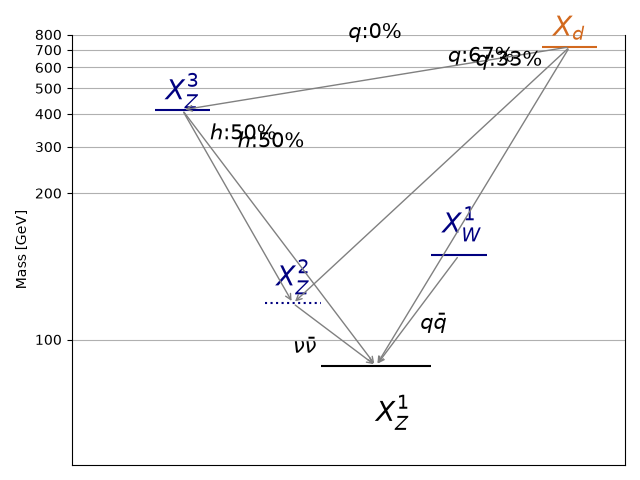
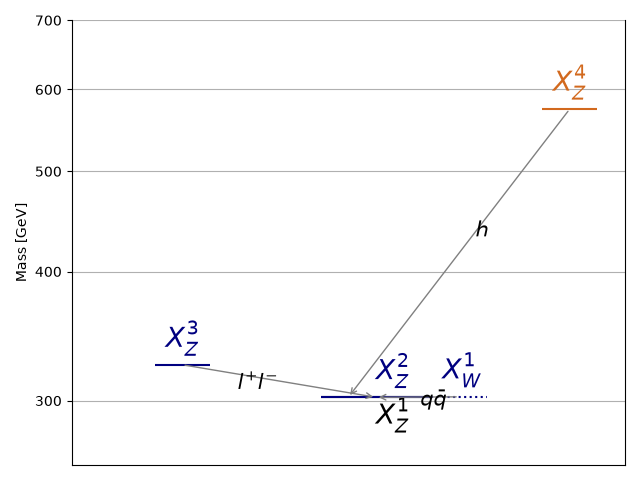
automated update by plotHiscore.py to rundir5_320:     K=12.682 TL=18.43 walkerid=504

diff --git a/protomodels/rundir5_320/rawnumbers.html b/protomodels/rundir5_320/rawnumbers.html
@@ -1,45 +1,13 @@
 <table>
 <tr><th>Analysis Name</th><th>Type</th><th>Dataset</th><th>Topos</th><th>Observed</th><th>Expected</th><th>Approx &sigma;</th><th>Particles</th>
 </tr>
-<tr><td><a href=http://cms-results.web.cern.ch/cms-results/public-results/publications/EXO-20-004/>CMS-EXO-20-004</a></td><td>comb</td> <td>-</td><td>TChiISR, TChiZISRqq</td><td> 1e+02 fb </td><td> 8e+01 fb</td><td style="text-align:right">4.8 &sigma;</td><td style="text-align:right">X<sup>1</sup><sub>W</sub>, X<sup>2</sup><sub>Z</sub>, X<sup>1</sup><sub>Z</sub></td></tr>
-<tr><td><a href=https://atlas.web.cern.ch/Atlas/GROUPS/PHYSICS/PAPERS/EXOT-2018-06/>ATLAS-EXOT-2018-06</a></td><td>em</td> <td>EM10</td><td>TChiISR, TChiZISRqq</td><td>413</td><td>359.00 +/- 10.00</td><td style="text-align:right">2.5 &sigma;</td><td style="text-align:right">X<sup>1</sup><sub>W</sub>, X<sup>2</sup><sub>Z</sub>, X<sup>1</sup><sub>Z</sub></td></tr>
-<tr><td><a href=http://cms-results.web.cern.ch/cms-results/public-results/publications/SUS-20-004/>CMS-SUS-20-004</a></td><td>comb</td> <td>-</td><td>TChiHH</td><td> 0.4 fb </td><td> 0.2 fb</td><td style="text-align:right">2.3 &sigma;</td><td style="text-align:right">X<sup>3</sup><sub>Z</sub>, X<sup>2</sup><sub>Z</sub>, X<sup>1</sup><sub>Z</sub></td></tr>
-<tr><td><a href=https://atlas.web.cern.ch/Atlas/GROUPS/PHYSICS/PAPERS/SUSY-2016-07/>ATLAS-SUSY-2016-07</a></td><td>em</td> <td>2j_Meff_1200</td><td>T2</td><td>611</td><td>526.00 +/- 31.00</td><td style="text-align:right">2.2 &sigma;</td><td style="text-align:right">X<sup>2</sup><sub>Z</sub>, X<sup>1</sup><sub>Z</sub>, X<sub>d</sub></td></tr>
-<tr><td><a href=https://cms-results.web.cern.ch/cms-results/public-results/publications/SUS-13-012/index.html>CMS-SUS-13-012</a></td><td>em</td> <td>3NJet6_1000HT12 ...</td><td>T2</td><td>32</td><td>22.80 +/- 5.20</td><td style="text-align:right">1.2 &sigma;</td><td style="text-align:right">X<sup>2</sup><sub>Z</sub>, X<sup>1</sup><sub>Z</sub>, X<sub>d</sub></td></tr>
-<tr><td><a href=https://atlas.web.cern.ch/Atlas/GROUPS/PHYSICS/CONFNOTES/ATLAS-CONF-2013-054/>ATLAS-CONF-2013-054</a></td><td>em</td> <td>8j50 flavor 0 b ...</td><td>T2</td><td>40</td><td>35.00 +/- 4.00</td><td style="text-align:right">0.7 &sigma;</td><td style="text-align:right">X<sup>2</sup><sub>Z</sub>, X<sup>1</sup><sub>Z</sub>, X<sub>d</sub></td></tr>
-<tr><td><a href=https://atlas.web.cern.ch/Atlas/GROUPS/PHYSICS/PAPERS/SUSY-2013-02/>ATLAS-SUSY-2013-02</a></td><td>em</td> <td>SR2jt</td><td>T2</td><td>133</td><td>125.00 +/- 10.00</td><td style="text-align:right">0.5 &sigma;</td><td style="text-align:right">X<sup>2</sup><sub>Z</sub>, X<sup>1</sup><sub>Z</sub>, X<sub>d</sub></td></tr>
+<tr><td><a href=https://atlas.web.cern.ch/Atlas/GROUPS/PHYSICS/PAPERS/EXOT-2018-06/>ATLAS-EXOT-2018-06</a></td><td>em</td> <td>EM10</td><td>TChiISR</td><td>413</td><td>359.00 +/- 10.00</td><td style="text-align:right">2.4 &sigma;</td><td style="text-align:right">X<sup>2</sup><sub>Z</sub>, X<sup>1</sup><sub>Z</sub></td></tr>
+<tr><td><a href=http://cms-results.web.cern.ch/cms-results/public-results/publications/SUS-20-004/>CMS-SUS-20-004</a></td><td>comb</td> <td>-</td><td>TChiHH</td><td> 0.3 fb </td><td> 0.2 fb</td><td style="text-align:right">2.2 &sigma;</td><td style="text-align:right">X<sup>4</sup><sub>Z</sub>, X<sup>2</sup><sub>Z</sub></td></tr>
+<tr><td><a href=http://cms-results.web.cern.ch/cms-results/public-results/publications/EXO-20-004/>CMS-EXO-20-004</a></td><td>comb</td> <td>-</td><td>TChiISR</td><td> 4e+01 fb </td><td> 3e+01 fb</td><td style="text-align:right">2.2 &sigma;</td><td style="text-align:right">X<sup>2</sup><sub>Z</sub>, X<sup>1</sup><sub>Z</sub></td></tr>
+<tr><td><a href=http://cms-results.web.cern.ch/cms-results/public-results/publications/EXO-19-010/>CMS-EXO-19-010</a></td><td>em</td> <td>SR_nlay5</td><td>TDTM2F</td><td>6</td><td>3.70 +/- 1.24</td><td style="text-align:right">0.8 &sigma;</td><td style="text-align:right">X<sup>1</sup><sub>W</sub>, X<sup>2</sup><sub>Z</sub>, X<sup>1</sup><sub>Z</sub></td></tr>
+<tr><td><a href=https://atlas.web.cern.ch/Atlas/GROUPS/PHYSICS/PAPERS/SUSY-2018-42/>ATLAS-SUSY-2018-42</a></td><td>em</td> <td>SR300_High_long</td><td>TDTM2F</td><td>7</td><td>5.10 +/- 0.50</td><td style="text-align:right">0.7 &sigma;</td><td style="text-align:right">X<sup>1</sup><sub>W</sub>, X<sup>2</sup><sub>Z</sub>, X<sup>1</sup><sub>Z</sub></td></tr>
+<tr><td><a href=https://atlas.web.cern.ch/Atlas/GROUPS/PHYSICS/PAPERS/SUSY-2016-06/>ATLAS-SUSY-2016-06</a></td><td>em</td> <td>SR_EW</td><td>TDTM2F</td><td>9</td><td>11.80 +/- 3.10</td><td style="text-align:right">-0.7 &sigma;</td><td style="text-align:right">X<sup>1</sup><sub>W</sub>, X<sup>2</sup><sub>Z</sub>, X<sup>1</sup><sub>Z</sub></td></tr>
 </table>
 <table style='color:grey'>
-<tr><th>Not in Best Combo</th><th>Type</th><th>Dataset</th><th>Topos</th><th>Observed</th><th>Expected</th><th>Approx &sigma;</th><th>Particles</th><tr><td><a href=https://atlas.web.cern.ch/Atlas/GROUPS/PHYSICS/CONFNOTES/ATLAS-CONF-2013-047/>ATLAS-CONF-2013-047</a></td><td>em</td> <td>E Loose</td><td>T2</td><td>166</td><td>113.00 +/- 21.00</td><td style="text-align:right">2.2 &sigma;</td><td style="text-align:right">X<sup>2</sup><sub>Z</sub>, X<sup>1</sup><sub>Z</sub>, X<sub>d</sub></td></tr>
-<tr><td><a href=https://atlas.web.cern.ch/Atlas/GROUPS/PHYSICS/CONFNOTES/ATLAS-CONF-2013-047/>ATLAS-CONF-2013-047</a></td><td>em</td> <td>A Loose</td><td>T2</td><td>5333</td><td>4700.00 +/- 500.00</td><td style="text-align:right">1.3 &sigma;</td><td style="text-align:right">X<sup>2</sup><sub>Z</sub>, X<sup>1</sup><sub>Z</sub>, X<sub>d</sub></td></tr>
-<tr><td><a href=http://cms-results.web.cern.ch/cms-results/public-results/publications/SUS-16-033/index.html>CMS-SUS-16-033</a></td><td>em</td> <td>SR2_Njet3_Nb0_H ...</td><td>T2</td><td>71</td><td>55.20 +/- 11.50</td><td style="text-align:right">1.1 &sigma;</td><td style="text-align:right">X<sup>2</sup><sub>Z</sub>, X<sup>1</sup><sub>Z</sub>, X<sub>d</sub></td></tr>
-<tr><td><a href=https://atlas.web.cern.ch/Atlas/GROUPS/PHYSICS/CONFNOTES/ATLAS-CONF-2013-047/>ATLAS-CONF-2013-047</a></td><td>em</td> <td>E Medium</td><td>T2</td><td>41</td><td>30.00 +/- 8.00</td><td style="text-align:right">1.1 &sigma;</td><td style="text-align:right">X<sup>2</sup><sub>Z</sub>, X<sup>1</sup><sub>Z</sub>, X<sub>d</sub></td></tr>
-<tr><td><a href=http://atlas.web.cern.ch/Atlas/GROUPS/PHYSICS/PAPERS/SUSY-2015-06/>ATLAS-SUSY-2015-06</a></td><td>em</td> <td>SR4jt</td><td>T2</td><td>7</td><td>4.10 +/- 1.10</td><td style="text-align:right">1.0 &sigma;</td><td style="text-align:right">X<sup>2</sup><sub>Z</sub>, X<sup>1</sup><sub>Z</sub>, X<sub>d</sub></td></tr>
-<tr><td><a href=https://atlas.web.cern.ch/Atlas/GROUPS/PHYSICS/CONFNOTES/ATLAS-CONF-2013-047/>ATLAS-CONF-2013-047</a></td><td>em</td> <td>E Tight</td><td>T2</td><td>5</td><td>2.90 +/- 1.80</td><td style="text-align:right">0.7 &sigma;</td><td style="text-align:right">X<sup>2</sup><sub>Z</sub>, X<sup>1</sup><sub>Z</sub>, X<sub>d</sub></td></tr>
-<tr><td><a href=http://cms-results.web.cern.ch/cms-results/public-results/publications/SUS-16-033/index.html>CMS-SUS-16-033</a></td><td>em</td> <td>SR6_Njet2_Nb2_H ...</td><td>T2</td><td>216</td><td>196.00 +/- 28.00</td><td style="text-align:right">0.6 &sigma;</td><td style="text-align:right">X<sup>2</sup><sub>Z</sub>, X<sup>1</sup><sub>Z</sub>, X<sub>d</sub></td></tr>
-<tr><td><a href=https://atlas.web.cern.ch/Atlas/GROUPS/PHYSICS/CONFNOTES/ATLAS-CONF-2013-047/>ATLAS-CONF-2013-047</a></td><td>em</td> <td>B Tight</td><td>T2</td><td>4</td><td>2.40 +/- 1.40</td><td style="text-align:right">0.6 &sigma;</td><td style="text-align:right">X<sup>2</sup><sub>Z</sub>, X<sup>1</sup><sub>Z</sub>, X<sub>d</sub></td></tr>
-<tr><td><a href=https://atlas.web.cern.ch/Atlas/GROUPS/PHYSICS/CONFNOTES/ATLAS-CONF-2013-047/>ATLAS-CONF-2013-047</a></td><td>em</td> <td>A Medium</td><td>T2</td><td>135</td><td>122.00 +/- 18.00</td><td style="text-align:right">0.6 &sigma;</td><td style="text-align:right">X<sup>2</sup><sub>Z</sub>, X<sup>1</sup><sub>Z</sub>, X<sub>d</sub></td></tr>
-<tr><td><a href=http://cms-results.web.cern.ch/cms-results/public-results/publications/SUS-16-033/index.html>CMS-SUS-16-033</a></td><td>em</td> <td>SR1_Njet2_Nb0_H ...</td><td>T2</td><td>7838</td><td>7584.00 +/- 433.00</td><td style="text-align:right">0.6 &sigma;</td><td style="text-align:right">X<sup>2</sup><sub>Z</sub>, X<sup>1</sup><sub>Z</sub>, X<sub>d</sub></td></tr>
-<tr><td><a href=http://cms-results.web.cern.ch/cms-results/public-results/publications/SUS-16-033/index.html>CMS-SUS-16-033</a></td><td>em</td> <td>SR12_Njet5_Nb1_ ...</td><td>T2</td><td>48</td><td>42.20 +/- 9.70</td><td style="text-align:right">0.5 &sigma;</td><td style="text-align:right">X<sup>2</sup><sub>Z</sub>, X<sup>1</sup><sub>Z</sub>, X<sub>d</sub></td></tr>
-<tr><td><a href=http://cms-results.web.cern.ch/cms-results/public-results/publications/SUS-16-033/index.html>CMS-SUS-16-033</a></td><td>em</td> <td>SR7_Njet3_Nb1_H ...</td><td>T2</td><td>123</td><td>113.00 +/- 18.00</td><td style="text-align:right">0.5 &sigma;</td><td style="text-align:right">X<sup>2</sup><sub>Z</sub>, X<sup>1</sup><sub>Z</sub>, X<sub>d</sub></td></tr>
-<tr><td><a href=https://atlas.web.cern.ch/Atlas/GROUPS/PHYSICS/CONFNOTES/ATLAS-CONF-2013-047/>ATLAS-CONF-2013-047</a></td><td>em</td> <td>D</td><td>T2</td><td>18</td><td>15.00 +/- 5.00</td><td style="text-align:right">0.4 &sigma;</td><td style="text-align:right">X<sup>2</sup><sub>Z</sub>, X<sup>1</sup><sub>Z</sub>, X<sub>d</sub></td></tr>
-<tr><td><a href=http://atlas.web.cern.ch/Atlas/GROUPS/PHYSICS/PAPERS/SUSY-2015-06/>ATLAS-SUSY-2015-06</a></td><td>em</td> <td>SR2jt</td><td>T2</td><td>26</td><td>23.00 +/- 4.00</td><td style="text-align:right">0.4 &sigma;</td><td style="text-align:right">X<sup>2</sup><sub>Z</sub>, X<sup>1</sup><sub>Z</sub>, X<sub>d</sub></td></tr>
-<tr><td><a href=https://atlas.web.cern.ch/Atlas/GROUPS/PHYSICS/CONFNOTES/ATLAS-CONF-2013-047/>ATLAS-CONF-2013-047</a></td><td>em</td> <td>C Medium</td><td>T2</td><td>228</td><td>210.00 +/- 40.00</td><td style="text-align:right">0.4 &sigma;</td><td style="text-align:right">X<sup>2</sup><sub>Z</sub>, X<sup>1</sup><sub>Z</sub>, X<sub>d</sub></td></tr>
-<tr><td><a href=http://cms-results.web.cern.ch/cms-results/public-results/publications/SUS-16-033/index.html>CMS-SUS-16-033</a></td><td>em</td> <td>SR9_NJet5_Nb2_H ...</td><td>T2</td><td>6</td><td>4.40 +/- 3.40</td><td style="text-align:right">0.4 &sigma;</td><td style="text-align:right">X<sup>2</sup><sub>Z</sub>, X<sup>1</sup><sub>Z</sub>, X<sub>d</sub></td></tr>
-<tr><td><a href=http://cms-results.web.cern.ch/cms-results/public-results/publications/SUS-16-033/index.html>CMS-SUS-16-033</a></td><td>em</td> <td>SR4_Njet5_Nb0_H ...</td><td>T2</td><td>25</td><td>23.00 +/- 6.50</td><td style="text-align:right">0.2 &sigma;</td><td style="text-align:right">X<sup>2</sup><sub>Z</sub>, X<sup>1</sup><sub>Z</sub>, X<sub>d</sub></td></tr>
-<tr><td><a href=http://cms-results.web.cern.ch/cms-results/public-results/publications/SUS-16-033/index.html>CMS-SUS-16-033</a></td><td>em</td> <td>SR3_Njet5_Nb0_H ...</td><td>T2</td><td>819</td><td>806.00 +/- 57.00</td><td style="text-align:right">0.2 &sigma;</td><td style="text-align:right">X<sup>2</sup><sub>Z</sub>, X<sup>1</sup><sub>Z</sub>, X<sub>d</sub></td></tr>
-<tr><td><a href=http://cms-results.web.cern.ch/cms-results/public-results/publications/SUS-16-033/index.html>CMS-SUS-16-033</a></td><td>em</td> <td>SR5_Njet9_Nb0_H ...</td><td>T2</td><td>1</td><td>0.60 +/- 1.30</td><td style="text-align:right">0.2 &sigma;</td><td style="text-align:right">X<sup>2</sup><sub>Z</sub>, X<sup>1</sup><sub>Z</sub>, X<sub>d</sub></td></tr>
-<tr><td><a href=http://atlas.web.cern.ch/Atlas/GROUPS/PHYSICS/PAPERS/SUSY-2015-06/>ATLAS-SUSY-2015-06</a></td><td>em</td> <td>SR2jm</td><td>T2</td><td>191</td><td>191.00 +/- 21.00</td><td style="text-align:right">-0.0 &sigma;</td><td style="text-align:right">X<sup>2</sup><sub>Z</sub>, X<sup>1</sup><sub>Z</sub>, X<sub>d</sub></td></tr>
-<tr><td><a href=https://atlas.web.cern.ch/Atlas/GROUPS/PHYSICS/PAPERS/SUSY-2018-22/>ATLAS-SUSY-2018-22</a></td><td>em</td> <td>SR2j_2200</td><td>T2</td><td>971</td><td>980.00 +/- 50.00</td><td style="text-align:right">-0.2 &sigma;</td><td style="text-align:right">X<sup>2</sup><sub>Z</sub>, X<sup>1</sup><sub>Z</sub>, X<sub>d</sub></td></tr>
-<tr><td><a href=http://cms-results.web.cern.ch/cms-results/public-results/publications/SUS-16-033/index.html>CMS-SUS-16-033</a></td><td>em</td> <td>SR8_Njet5_Nb3_H ...</td><td>T2</td><td>17</td><td>19.50 +/- 8.40</td><td style="text-align:right">-0.3 &sigma;</td><td style="text-align:right">X<sup>2</sup><sub>Z</sub>, X<sup>1</sup><sub>Z</sub>, X<sub>d</sub></td></tr>
-<tr><td><a href=https://atlas.web.cern.ch/Atlas/GROUPS/PHYSICS/CONFNOTES/ATLAS-CONF-2013-047/>ATLAS-CONF-2013-047</a></td><td>em</td> <td>B Medium</td><td>T2</td><td>29</td><td>33.00 +/- 7.00</td><td style="text-align:right">-0.5 &sigma;</td><td style="text-align:right">X<sup>2</sup><sub>Z</sub>, X<sup>1</sup><sub>Z</sub>, X<sub>d</sub></td></tr>
-<tr><td><a href=https://atlas.web.cern.ch/Atlas/GROUPS/PHYSICS/PAPERS/SUSY-2018-22/>ATLAS-SUSY-2018-22</a></td><td>em</td> <td>SR2j_1600</td><td>T2</td><td>2111</td><td>2190.00 +/- 130.00</td><td style="text-align:right">-0.6 &sigma;</td><td style="text-align:right">X<sup>2</sup><sub>Z</sub>, X<sup>1</sup><sub>Z</sub>, X<sub>d</sub></td></tr>
-<tr><td><a href=http://atlas.web.cern.ch/Atlas/GROUPS/PHYSICS/PAPERS/SUSY-2015-06/>ATLAS-SUSY-2015-06</a></td><td>em</td> <td>SR6jt</td><td>T2</td><td>3</td><td>4.20 +/- 1.20</td><td style="text-align:right">-0.7 &sigma;</td><td style="text-align:right">X<sup>2</sup><sub>Z</sub>, X<sup>1</sup><sub>Z</sub>, X<sub>d</sub></td></tr>
-<tr><td><a href=http://atlas.web.cern.ch/Atlas/GROUPS/PHYSICS/PAPERS/SUSY-2015-06/>ATLAS-SUSY-2015-06</a></td><td>em</td> <td>SR2jl</td><td>T2</td><td>263</td><td>283.00 +/- 24.00</td><td style="text-align:right">-0.7 &sigma;</td><td style="text-align:right">X<sup>2</sup><sub>Z</sub>, X<sup>1</sup><sub>Z</sub>, X<sub>d</sub></td></tr>
-<tr><td><a href=https://atlas.web.cern.ch/Atlas/GROUPS/PHYSICS/PAPERS/SUSY-2018-22/>ATLAS-SUSY-2018-22</a></td><td>em</td> <td>SR2j_2800</td><td>T2</td><td>78</td><td>87.00 +/- 8.00</td><td style="text-align:right">-0.8 &sigma;</td><td style="text-align:right">X<sup>2</sup><sub>Z</sub>, X<sup>1</sup><sub>Z</sub>, X<sub>d</sub></td></tr>
-<tr><td><a href=https://atlas.web.cern.ch/Atlas/GROUPS/PHYSICS/CONFNOTES/ATLAS-CONF-2013-047/>ATLAS-CONF-2013-047</a></td><td>em</td> <td>C Tight</td><td>T2</td><td>0</td><td>1.60 +/- 1.40</td><td style="text-align:right">-0.8 &sigma;</td><td style="text-align:right">X<sup>2</sup><sub>Z</sub>, X<sup>1</sup><sub>Z</sub>, X<sub>d</sub></td></tr>
-<tr><td><a href=http://cms-results.web.cern.ch/cms-results/public-results/publications/SUS-16-033/index.html>CMS-SUS-16-033</a></td><td>em</td> <td>SR11_Njet7_Nb1_ ...</td><td>T2</td><td>890</td><td>969.00 +/- 80.00</td><td style="text-align:right">-0.9 &sigma;</td><td style="text-align:right">X<sup>2</sup><sub>Z</sub>, X<sup>1</sup><sub>Z</sub>, X<sub>d</sub></td></tr>
-<tr><td><a href=http://atlas.web.cern.ch/Atlas/GROUPS/PHYSICS/PAPERS/SUSY-2015-06/>ATLAS-SUSY-2015-06</a></td><td>em</td> <td>SR6jm</td><td>T2</td><td>4</td><td>6.90 +/- 1.50</td><td style="text-align:right">-1.2 &sigma;</td><td style="text-align:right">X<sup>2</sup><sub>Z</sub>, X<sup>1</sup><sub>Z</sub>, X<sub>d</sub></td></tr>
-<tr><td><a href=http://atlas.web.cern.ch/Atlas/GROUPS/PHYSICS/PAPERS/SUSY-2015-06/>ATLAS-SUSY-2015-06</a></td><td>em</td> <td>SR5j</td><td>T2</td><td>7</td><td>13.20 +/- 2.20</td><td style="text-align:right">-1.7 &sigma;</td><td style="text-align:right">X<sup>2</sup><sub>Z</sub>, X<sup>1</sup><sub>Z</sub>, X<sub>d</sub></td></tr>
-<tr><td><a href=http://cms-results.web.cern.ch/cms-results/public-results/publications/SUS-19-006/index.html>CMS-SUS-19-006-agg</a></td><td>comb</td> <td>-</td><td>T2</td><td> 9 fb </td><td> 8 fb</td><td style="text-align:right">-2.6 &sigma;</td><td style="text-align:right">X<sup>2</sup><sub>Z</sub>, X<sup>1</sup><sub>Z</sub>, X<sub>d</sub></td></tr>
+<tr><th>Not in Best Combo</th><th>Type</th><th>Dataset</th><th>Topos</th><th>Observed</th><th>Expected</th><th>Approx &sigma;</th><th>Particles</th><tr><td><a href=https://atlas.web.cern.ch/Atlas/GROUPS/PHYSICS/PAPERS/SUSY-2018-19/>ATLAS-SUSY-2018-19</a></td><td>em</td> <td>SR_EW</td><td>TDTM2F</td><td>3</td><td>3.00 +/- 0.70</td><td style="text-align:right">-0.2 &sigma;</td><td style="text-align:right">X<sup>1</sup><sub>W</sub>, X<sup>2</sup><sub>Z</sub>, X<sup>1</sup><sub>Z</sub></td></tr>
 </table>

diff --git a/protomodels/rundir5_320/index.html b/protomodels/rundir5_320/index.html
@@ -1,27 +1,27 @@
 <html>
 <body>
 <center>
-<table><td><h1>Current best protomodel: <i>K</i>=33.77, <i>TL</i>=41.52</h1><td><img height=60px src=https://smodels.github.io//protomodels/logos/protomodel_lego.png></table>
+<table><td><h1>Current best protomodel: <i>K</i>=12.68, <i>TL</i>=18.43</h1><td><img height=60px src=https://smodels.github.io//protomodels/logos/protomodel_lego.png></table>
 </center>
-<b><a href=./hiscore.slha>ProtoModel</a> <a href=./pmodel.dict>(dict)</a> produced with <a href=https://smodels.github.io//docs/Validation320>database v3.2.0</a>, allowed_extr 0.05 in walker 502 step 1621.</b> <br>
+<b><a href=./hiscore.slha>ProtoModel</a> <a href=./pmodel.dict>(dict)</a> produced with <a href=https://smodels.github.io//docs/Validation320>database v3.2.0</a>, allowed_extr 0.05 in walker 504 step 916.</b> <br>
 <table width=80%>
 <tr><td>
 <br><b>Critics:</b> passed both critics<br>
-<br><b>UL Critic: 1/3 analyses exclude</b><br>
-ATLAS-EXOT-2018-06:EM12:: <span style='color: darkred;'>r<sub>obs</sub>=2.149, r<sub>exp</sub>=1.793</span><br>
-CMS-SUS-19-006:ul:: <span style='color: darkgreen;'>r<sub>obs</sub>=0.912, r<sub>exp</sub>=0.772</span><br>
-CMS-SUS-16-033:ul:: <span style='color: darkgreen;'>r<sub>obs</sub>=0.858, r<sub>exp</sub>=0.588</span><br>
-<br><b>LLHD Critic:</b> CMS-EXO-20-004:matrix.cov, ATLAS-EXOT-2018-06:EM12, CMS-SUS-20-004:matrix.cov, ATLAS-SUSY-2016-07:2j_Meff_1200, ATLAS-SUSY-2013-02:SR2jt, CMS-SUS-13-012:3NJet6_1000HT1250_600MHTinf:: <span style='color: darkgreen;'>r<sub>obs</sub>=0.99, r<sub>exp</sub>=3.52</span><br>
+<br><b>UL Critic: 1/2 analyses exclude</b><br>
+ATLAS-EXOT-2018-06:EM12:: <span style='color: darkred;'>r<sub>obs</sub>=1.755, r<sub>exp</sub>=1.464</span><br>
+CMS-EXO-19-010:SR_nlay6p:: <span style='color: darkgreen;'>r<sub>obs</sub>=0.606, r<sub>exp</sub>=0.371</span><br>
+ATLAS-SUSY-2018-19:SR_EW:: <span style='color: darkgreen;'>r<sub>obs</sub>=0.533, r<sub>exp</sub>=0.519</span><br>
+<br><b>LLHD Critic:</b> ATLAS-EXOT-2018-06:EM12, CMS-EXO-20-004:matrix.cov, CMS-SUS-20-004:matrix.cov, CMS-EXO-19-010:SR_nlay6p, ATLAS-SUSY-2016-06:SR_EW:: <span style='color: darkred;'>r<sub>obs</sub>=1.13, r<sub>exp</sub>=2.25</span><br>
 </ul>
-<td><img width=600px src=./texdoc.png?1791970967>
-<br><span style='font-size: smaller; color: darkred;'>Last updated: Wed Oct 14 11:42:47 2026</span>
-<br><br><b>42 predictions available. Highest r values are:</b><br><ul>
-<li><a href=https://atlas.web.cern.ch/Atlas/GROUPS/PHYSICS/PAPERS/EXOT-2018-06/>ATLAS-EXOT-2018-06</a>:EM12:TChiISR,TChiZISRqq r=2.15, r<sub>exp</sub>=1.79<br>
-<li><a href=http://cms-results.web.cern.ch/cms-results/public-results/publications/SUS-19-006/index.html>CMS-SUS-19-006</a>:ul:T2 r=0.91, r<sub>exp</sub>=0.77<br>
-<li><a href=http://cms-results.web.cern.ch/cms-results/public-results/publications/SUS-16-033/index.html>CMS-SUS-16-033</a>:ul:T2 r=0.86, r<sub>exp</sub>=0.59<br>
-<li><a href=http://cms-results.web.cern.ch/cms-results/public-results/publications/SUS-16-036/index.html>CMS-SUS-16-036</a>:ul:T2 r=0.64, r<sub>exp</sub>=0.53<br>
+<td><img width=600px src=./texdoc.png?1792253070>
+<br><span style='font-size: smaller; color: darkred;'>Last updated: Sat Oct 17 18:04:30 2026</span>
+<br><br><b>7 predictions available. Highest r values are:</b><br><ul>
+<li><a href=https://atlas.web.cern.ch/Atlas/GROUPS/PHYSICS/PAPERS/EXOT-2018-06/>ATLAS-EXOT-2018-06</a>:EM12:TChiISR r=1.76, r<sub>exp</sub>=1.46<br>
+<li><a href=http://cms-results.web.cern.ch/cms-results/public-results/publications/EXO-19-010/>CMS-EXO-19-010</a>:SR_nlay6p:TDTM2F r=0.61, r<sub>exp</sub>=0.37<br>
+<li><a href=https://atlas.web.cern.ch/Atlas/GROUPS/PHYSICS/PAPERS/SUSY-2018-19/>ATLAS-SUSY-2018-19</a>:SR_EW:TDTM2F r=0.53, r<sub>exp</sub>=0.52<br>
+<li><a href=http://cms-results.web.cern.ch/cms-results/public-results/publications/SUS-20-004/>CMS-SUS-20-004</a>:ul:TChiHH r=0.42, r<sub>exp</sub>=0.82<br>
 </table><table style="width:80%">
-<td width=40%><img height=450px src=./mass_hierarchy.png?1791970967><td width=60%><font size=-3><iframe type="text/html" height="350px" width="100%" frameborder="0" src="./rawnumbers.html?1791970967"></iframe></font>
+<td width=40%><img height=450px src=./mass_hierarchy.png?1792253070><td width=60%><font size=-3><iframe type="text/html" height="350px" width="100%" frameborder="0" src="./rawnumbers.html?1792253070"></iframe></font>
 </table>
 </body>
 </html>
